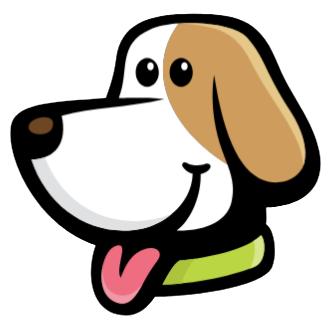
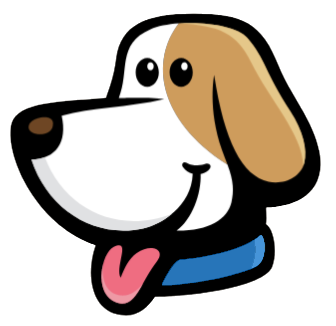
Quick Fixes

Changed region(s): [[0.4762, 0.7055, 0.8036, 0.8896]]

diff --git a/src/components/DogCard/DogCard.jsx b/src/components/DogCard/DogCard.jsx
@@ -23,7 +23,7 @@ const DogCard = ({ dog }) => {
         marginTop="6px"
         sx={{ width: "50%" }}
         >
-          <Box className={styles.dogCardImg}><img src={dog.photo? dog.photo:'/dog_icon_gray.png'} alt="" /></Box>
+          <Box className={styles.dogCardImg}><img src={dog.photo? dog.photo:'/BWdog_icon.png'} alt="" /></Box>
           <Box className={styles.dogCardContent} flexGrow="3">{dog.name} - {dog.breed}</Box>
         <Button variant="outlined" size="small" href={`/dogs/${dog._id}`}>DETAILS</Button>
         <Button variant="outlined" size="small" href={`/dogs/${dog._id}`}><AddCommentIcon /></Button>

diff --git a/src/pages/DogDetail/DogDetail.jsx b/src/pages/DogDetail/DogDetail.jsx
@@ -45,7 +45,7 @@ const DogDetails = (props) => {
     <main className={styles.container}>
       <header className={styles.dogDetailContainer}>
         <div className={styles.dogDetailImg}>
-          <img src={dog.photo? dog.photo:'/dog_icon_gray.png'} alt="Default Dog Photo" />
+          <img src={dog.photo? dog.photo:'/dog_icon.png'} alt="Default Dog Photo" />
           <div className={styles.DogPhotoButtonContainer}>
           <button><AddAPhotoIcon /></button>
           <button><NoPhotographyIcon /></button>
